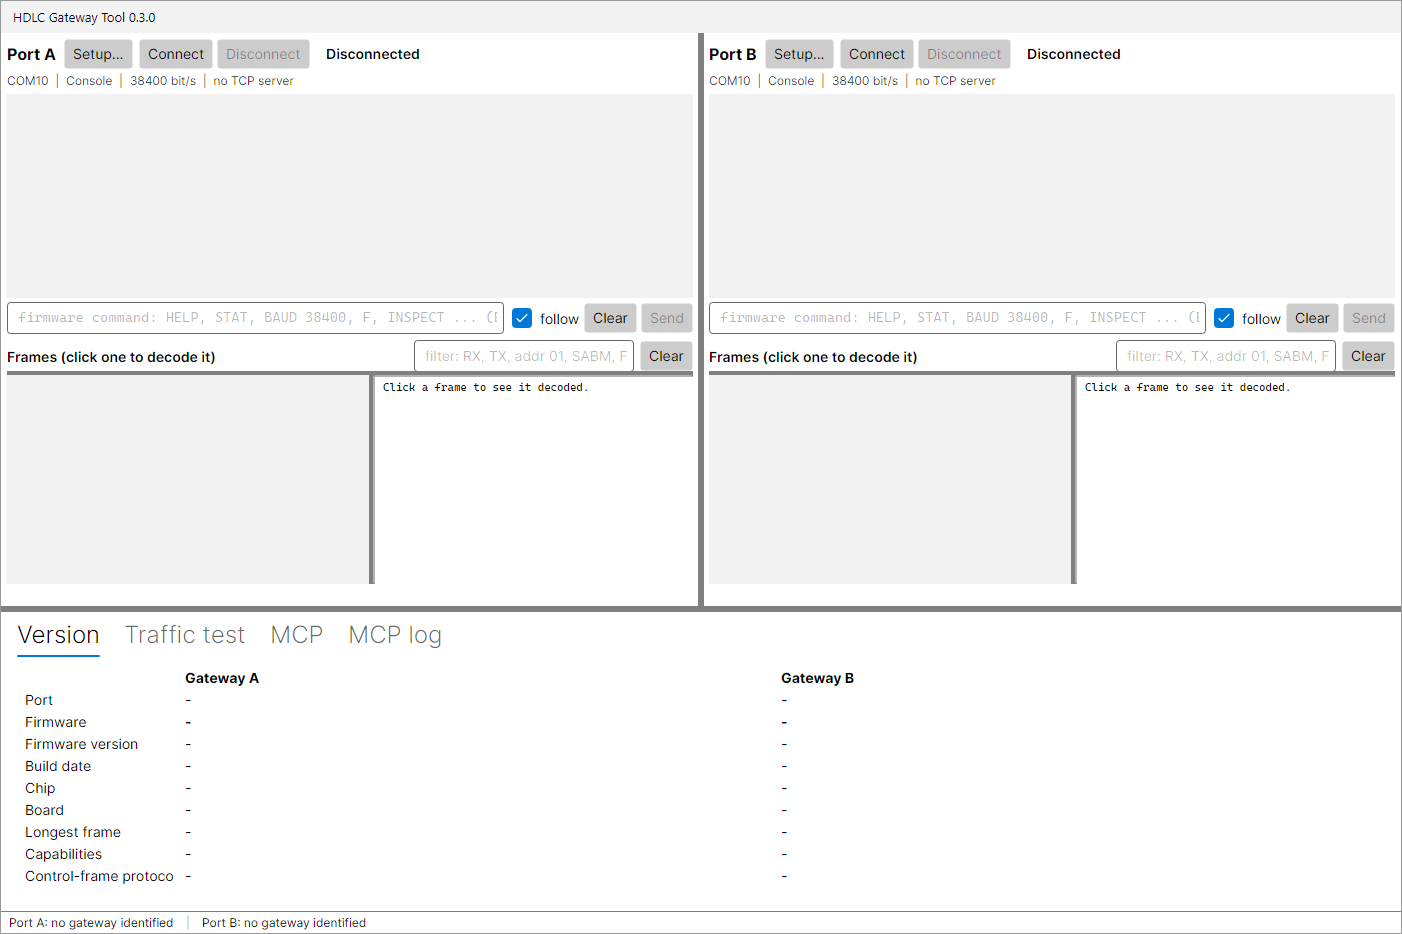
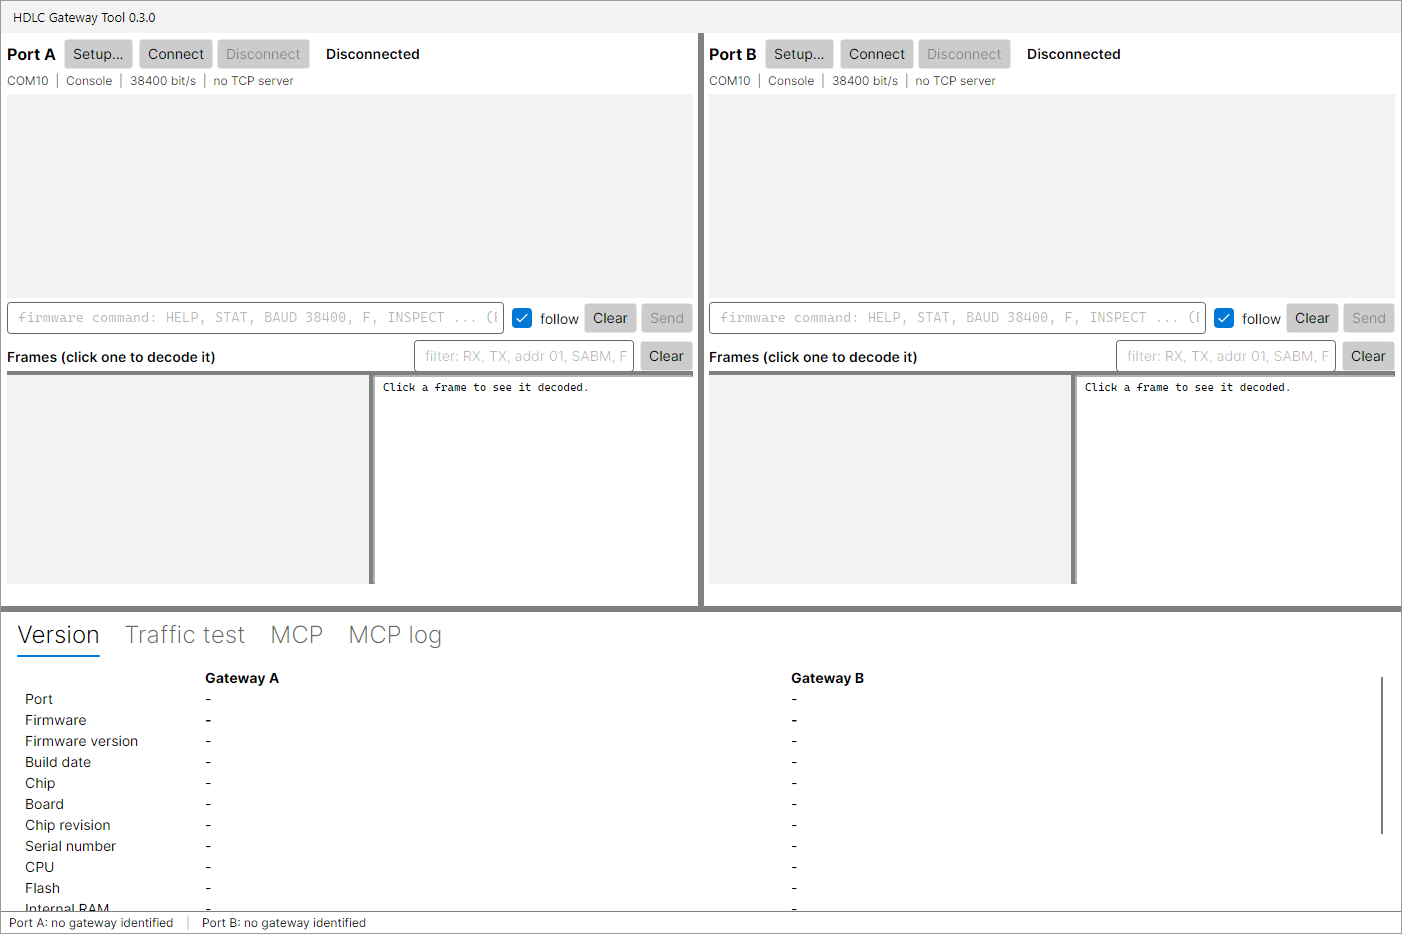
Version tab: chip revision, serial number, CPU, flash, RAM and PSRAM
HDLCGW and XMSGGW now send the hardware in their HELLO reply (rev, serial,
cores, mhz, flash, flashimage, flashmhz, flashmode, ram, ramfree, ramleast,
ramblock, psram, psramfree, psramblock); RC422Dev uses the same names.
GatewayIdentity reads every key, and the Version tab shows six new rows.
A key the firmware does not send shows as "-".

The Version table now scrolls: with the new rows it is taller than the
300-pixel tab area. The label column is 180 pixels so "Control-frame
protocol" is not cut off.

Tests: the new keys parsed, missing and non-number values, and the pane's
text for each row. The fake gateways and the screenshot samples carry the
keys; the pictures were made again. 150 tests pass.

Changed region(s): [[0.0, 0.7452, 0.1227, 0.9936], [0.1227, 0.7141, 0.2147, 0.7452], [0.5521, 0.7141, 0.6134, 0.7452]]

diff --git a/src/HdlcGatewayTest.Core/GatewayIdentity.cs b/src/HdlcGatewayTest.Core/GatewayIdentity.cs
@@ -8,7 +8,9 @@ namespace HdlcGatewayTest.Core;
 
 /// <summary>
 /// The firmware's answer to HELLO: a protocol version byte followed by key=value lines
-/// separated by LF. Known keys are name, version, build, maxframe and caps (comma separated);
+/// separated by LF. Known keys are name, version, build, chip, board, maxframe, caps (comma
+/// separated) and the hardware keys rev, serial, cores, mhz, flash, flashimage, flashmhz,
+/// flashmode, ram, ramfree, ramleast, ramblock, psram, psramfree and psramblock (2026-11-23);
 /// unknown keys are kept in <see cref="Values"/> so a newer firmware loses nothing.
 /// </summary>
 public sealed class GatewayIdentity
@@ -60,6 +62,54 @@ public sealed class GatewayIdentity
     /// <summary>Longest frame the firmware accepts, or 0 when not reported.</summary>
     public int MaxFrame => int.TryParse(Get("maxframe"), out int n) ? n : 0;
 
+    /// <summary>Chip revision, for example "0.0" (key "rev"; empty on older firmware).</summary>
+    public string Revision => Get("rev");
+
+    /// <summary>
+    /// The chip's serial number (key "serial"): the factory MAC from eFuse on an ESP32, the flash
+    /// chip's unique ID on a Pico. Empty on older firmware.
+    /// </summary>
+    public string Serial => Get("serial");
+
+    /// <summary>CPU cores (key "cores"), or null when not reported.</summary>
+    public long? Cores => GetNumber("cores");
+
+    /// <summary>CPU clock in MHz (key "mhz"), or null when not reported.</summary>
+    public long? CpuMhz => GetNumber("mhz");
+
+    /// <summary>Flash size read from the flash chip, in bytes (key "flash"), or null when not reported.</summary>
+    public long? FlashBytes => GetNumber("flash");
+
+    /// <summary>Flash size the firmware image was built for, in bytes (key "flashimage"), or null.</summary>
+    public long? FlashImageBytes => GetNumber("flashimage");
+
+    /// <summary>Flash clock in MHz (key "flashmhz"), or null when not reported.</summary>
+    public long? FlashMhz => GetNumber("flashmhz");
+
+    /// <summary>Flash access mode, for example "qio" or "dio" (key "flashmode"; empty when not reported).</summary>
+    public string FlashMode => Get("flashmode");
+
+    /// <summary>Internal RAM (heap) size in bytes (key "ram"), or null when not reported.</summary>
+    public long? RamBytes => GetNumber("ram");
+
+    /// <summary>Internal RAM free when HELLO was answered, in bytes (key "ramfree"), or null.</summary>
+    public long? RamFree => GetNumber("ramfree");
+
+    /// <summary>Least internal RAM free since the board started, in bytes (key "ramleast"), or null.</summary>
+    public long? RamLeast => GetNumber("ramleast");
+
+    /// <summary>Largest free block of internal RAM, in bytes (key "ramblock"), or null.</summary>
+    public long? RamBlock => GetNumber("ramblock");
+
+    /// <summary>PSRAM size in bytes (key "psram"; 0 when the board has none), or null when not reported.</summary>
+    public long? PsramBytes => GetNumber("psram");
+
+    /// <summary>PSRAM free in bytes (key "psramfree"), or null when not reported.</summary>
+    public long? PsramFree => GetNumber("psramfree");
+
+    /// <summary>Largest free block of PSRAM, in bytes (key "psramblock"), or null when not reported.</summary>
+    public long? PsramBlock => GetNumber("psramblock");
+
     /// <summary>Capability words from the caps key.</summary>
     public IReadOnlyList<string> Capabilities => _capabilities;
 
@@ -103,5 +153,14 @@ public sealed class GatewayIdentity
     private string Get(string key)
     {
         return _values.TryGetValue(key, out string? value) ? value : string.Empty;
+    }
+
+    /// <summary>A whole number from a key, or null when the key is missing or not a number.</summary>
+    private long? GetNumber(string key)
+    {
+        return _values.TryGetValue(key, out string? value)
+               && long.TryParse(value, System.Globalization.NumberStyles.None, System.Globalization.CultureInfo.InvariantCulture, out long n)
+            ? n
+            : null;
     }
 }

diff --git a/src/HdlcGatewayTest.App/ViewModels/GatewayPaneViewModel.cs b/src/HdlcGatewayTest.App/ViewModels/GatewayPaneViewModel.cs
@@ -286,6 +286,67 @@ public sealed class GatewayPaneViewModel : ObservableObject
     /// <summary>Board from HELLO (LOLIN S2 Mini, Raspberry Pi Pico).</summary>
     public string FirmwareBoard => Identity(i => i.Board);
 
+    /// <summary>Chip revision from HELLO, for example "0.0".</summary>
+    public string FirmwareRevision => Identity(i => i.Revision);
+
+    /// <summary>Chip serial number from HELLO (factory MAC on an ESP32, flash unique ID on a Pico).</summary>
+    public string FirmwareSerial => Identity(i => i.Serial);
+
+    /// <summary>"2 cores, 240 MHz" from HELLO, or empty on firmware that does not say.</summary>
+    public string FirmwareCpu => Identity(i => Join(
+        i.Cores.HasValue ? i.Cores.Value + (i.Cores.Value == 1 ? " core" : " cores") : string.Empty,
+        i.CpuMhz.HasValue ? i.CpuMhz.Value + " MHz" : string.Empty));
+
+    /// <summary>"4 MB on the chip, image built for 4 MB, 80 MHz, qio" from HELLO.</summary>
+    public string FirmwareFlash => Identity(i => Join(
+        i.FlashBytes.HasValue ? Bytes(i.FlashBytes.Value) + " on the chip" : string.Empty,
+        i.FlashImageBytes.HasValue ? "image built for " + Bytes(i.FlashImageBytes.Value) : string.Empty,
+        i.FlashMhz.HasValue ? i.FlashMhz.Value + " MHz" : string.Empty,
+        i.FlashMode));
+
+    /// <summary>Internal RAM from HELLO: size, free, least free since start, largest block.</summary>
+    public string FirmwareRam => Identity(i => Join(
+        i.RamBytes.HasValue ? Bytes(i.RamBytes.Value) : string.Empty,
+        i.RamFree.HasValue ? Bytes(i.RamFree.Value) + " free" : string.Empty,
+        i.RamLeast.HasValue ? "least " + Bytes(i.RamLeast.Value) : string.Empty,
+        i.RamBlock.HasValue ? "largest block " + Bytes(i.RamBlock.Value) : string.Empty));
+
+    /// <summary>PSRAM from HELLO: "none" when the board has none, else size, free and largest block.</summary>
+    public string FirmwarePsram => Identity(i => i.PsramBytes == 0 ? "none" : Join(
+        i.PsramBytes.HasValue ? Bytes(i.PsramBytes.Value) : string.Empty,
+        i.PsramFree.HasValue ? Bytes(i.PsramFree.Value) + " free" : string.Empty,
+        i.PsramBlock.HasValue ? "largest block " + Bytes(i.PsramBlock.Value) : string.Empty));
+
+    /// <summary>A byte count as "4 MB" when it is a whole number of MB, else "12,848 bytes".</summary>
+    public static string Bytes(long n)
+    {
+        const long Mb = 1024 * 1024;
+        if (n >= Mb && n % Mb == 0)
+        {
+            return (n / Mb).ToString(System.Globalization.CultureInfo.InvariantCulture) + " MB";
+        }
+        return n.ToString("N0", System.Globalization.CultureInfo.InvariantCulture) + " bytes";
+    }
+
+    /// <summary>The non-empty parts joined with ", ".</summary>
+    private static string Join(params string[] parts)
+    {
+        System.Text.StringBuilder sb = new System.Text.StringBuilder();
+        for (int i = 0; i < parts.Length; i++)
+        {
+            if (parts[i].Length == 0)
+            {
+                continue;
+            }
+            if (sb.Length > 0)
+            {
+                sb.Append(", ");
+            }
+            sb.Append(parts[i]);
+        }
+        return sb.ToString();
+    }
+
     /// <summary>Longest frame the firmware takes, from HELLO.</summary>
     public string FirmwareMaxFrame => Identity(i => i.MaxFrame > 0 ? i.MaxFrame + " bytes" : string.Empty);
 
@@ -750,6 +811,12 @@ public sealed class GatewayPaneViewModel : ObservableObject
         Raise(nameof(FirmwareBuild));
         Raise(nameof(FirmwareChip));
         Raise(nameof(FirmwareBoard));
+        Raise(nameof(FirmwareRevision));
+        Raise(nameof(FirmwareSerial));
+        Raise(nameof(FirmwareCpu));
+        Raise(nameof(FirmwareFlash));
+        Raise(nameof(FirmwareRam));
+        Raise(nameof(FirmwarePsram));
         Raise(nameof(FirmwareMaxFrame));
         Raise(nameof(FirmwareCapabilities));
         Raise(nameof(FirmwareProtocol));

diff --git a/src/tests/HdlcGatewayTest.Core.Tests/GatewayConsoleTests.cs b/src/tests/HdlcGatewayTest.Core.Tests/GatewayConsoleTests.cs
@@ -152,6 +152,55 @@ public sealed class GatewayConsoleTests
     }
 
     [Test]
+    public void Hello_ParsesHardwareKeys()
+    {
+        // The hardware keys HDLCGW and XMSGGW send since 2026-11-23 (board_hello_hardware).
+        string text = "name=HDLCGW\nversion=0.3.6\nchip=ESP32-S2\nrev=0.0\nserial=7CDFA1E2B3C4\ncores=1\nmhz=240\n"
+                      + "flash=4194304\nflashimage=4194304\nflashmhz=80\nflashmode=qio\n"
+                      + "ram=154000\nramfree=12848\nramleast=11044\nramblock=8192\n"
+                      + "psram=2097152\npsramfree=2003376\npsramblock=1966068\n";
+        byte[] payload = new byte[1 + Encoding.UTF8.GetByteCount(text)];
+        payload[0] = 1;
+        Encoding.UTF8.GetBytes(text, 0, text.Length, payload, 1);
+
+        Assert.That(GatewayIdentity.TryParse(payload, out GatewayIdentity? id), Is.True);
+        Assert.That(id!.Revision, Is.EqualTo("0.0"));
+        Assert.That(id.Serial, Is.EqualTo("7CDFA1E2B3C4"));
+        Assert.That(id.Cores, Is.EqualTo(1));
+        Assert.That(id.CpuMhz, Is.EqualTo(240));
+        Assert.That(id.FlashBytes, Is.EqualTo(4194304));
+        Assert.That(id.FlashImageBytes, Is.EqualTo(4194304));
+        Assert.That(id.FlashMhz, Is.EqualTo(80));
+        Assert.That(id.FlashMode, Is.EqualTo("qio"));
+        Assert.That(id.RamBytes, Is.EqualTo(154000));
+        Assert.That(id.RamFree, Is.EqualTo(12848));
+        Assert.That(id.RamLeast, Is.EqualTo(11044));
+        Assert.That(id.RamBlock, Is.EqualTo(8192));
+        Assert.That(id.PsramBytes, Is.EqualTo(2097152));
+        Assert.That(id.PsramFree, Is.EqualTo(2003376));
+        Assert.That(id.PsramBlock, Is.EqualTo(1966068));
+    }
+
+    [Test]
+    public void Hello_WithoutHardwareKeys_GivesNullAndEmpty()
+    {
+        // Firmware from before 2026-11-23, and a value that is not a number.
+        string text = "name=HDLCGW\nversion=0.3.5\nmhz=fast\n";
+        byte[] payload = new byte[1 + Encoding.UTF8.GetByteCount(text)];
+        payload[0] = 1;
+        Encoding.UTF8.GetBytes(text, 0, text.Length, payload, 1);
+
+        Assert.That(GatewayIdentity.TryParse(payload, out GatewayIdentity? id), Is.True);
+        Assert.That(id!.Revision, Is.Empty);
+        Assert.That(id.Serial, Is.Empty);
+        Assert.That(id.Cores, Is.Null);
+        Assert.That(id.CpuMhz, Is.Null);
+        Assert.That(id.FlashBytes, Is.Null);
+        Assert.That(id.PsramBytes, Is.Null);
+        Assert.That(id.FlashMode, Is.Empty);
+    }
+
+    [Test]
     public void Statistics_ParseWith17Fields_AndWith10()
     {
         byte[] full = new byte[17 * 4];

diff --git a/src/tests/HdlcGatewayTest.App.Tests/Screenshots.cs b/src/tests/HdlcGatewayTest.App.Tests/Screenshots.cs
@@ -40,10 +40,13 @@ namespace HdlcGatewayTest.App.Tests;
 public sealed class Screenshots
 {
     private const string EspHello =
-        "name=HDLCGW\nversion=0.3.5\nbuild=bench\nchip=ESP32-S2\nboard=LOLIN S2 Mini\nmaxframe=4105\ncaps=cmd,log,stat\n";
+        "name=HDLCGW\nversion=0.3.5\nbuild=bench\nchip=ESP32-S2\nboard=LOLIN S2 Mini\nmaxframe=4105\ncaps=cmd,log,stat\n"
+        + "rev=0.0\ncores=1\nmhz=240\nflash=4194304\nflashimage=4194304\nflashmhz=80\nflashmode=dio\n"
+        + "ram=154000\nramfree=12848\nramleast=11044\npsram=2097152\npsramfree=2003376\n";
 
     private const string PicoHello =
-        "name=RC422Dev\nversion=0.2.0\nbuild=bench\nchip=RP2040\nboard=Raspberry Pi Pico\nmaxframe=4105\ncaps=cmd,stat\n";
+        "name=RC422Dev\nversion=0.2.0\nbuild=bench\nchip=RP2040\nboard=Raspberry Pi Pico\nmaxframe=4105\ncaps=cmd,stat\n"
+        + "cores=2\nflashimage=2097152\nram=270336\npsram=0\n";
 
     private HeadlessUnitTestSession? _session;
     private string _outDir = string.Empty;
@@ -123,8 +126,16 @@ public sealed class Screenshots
             main.PaneB.CommandText = "BAUD 307200";
             main.PaneB.SendCommand.Execute(null);
             PumpFor(500);
+            // The whole Version table, hardware rows included, in the picture: a taller window and
+            // a taller tab row (300 pixels in MainWindow.axaml; a user drags the bar above it).
+            Grid root = (Grid)window.Content!;
+            GridLength tabRow = root.RowDefinitions[2].Height;
+            window.Height = 1100;
+            root.RowDefinitions[2].Height = new GridLength(460);
             SelectTab(window, "Version");
             Save(window, "02-connected-version", theme);
+            root.RowDefinitions[2].Height = tabRow;
+            window.Height = 900;
 
             // 3. Pane A in the Free role: frames typed in hex, decoded in the frame list.
             main.PaneA.SelectedRole = GatewayPaneViewModel.RoleName(GatewayRole.Free);

diff --git a/src/tests/HdlcGatewayTest.App.Tests/GatewayPaneViewModelTests.cs b/src/tests/HdlcGatewayTest.App.Tests/GatewayPaneViewModelTests.cs
@@ -273,6 +273,12 @@ public sealed class GatewayPaneViewModelTests
         Assert.That(vm.FirmwareChip, Is.EqualTo("FAKE1"));
         Assert.That(vm.FirmwareBoard, Is.EqualTo("Test bench"));
         Assert.That(vm.FirmwareMaxFrame, Is.EqualTo("1024 bytes"));
+        Assert.That(vm.FirmwareRevision, Is.EqualTo("1.0"));
+        Assert.That(vm.FirmwareSerial, Is.EqualTo("0011223344AA"));
+        Assert.That(vm.FirmwareCpu, Is.EqualTo("2 cores, 240 MHz"));
+        Assert.That(vm.FirmwareFlash, Is.EqualTo("4 MB on the chip, image built for 2 MB, 80 MHz, dio"));
+        Assert.That(vm.FirmwareRam, Is.EqualTo("323,204 bytes, 216,156 bytes free, least 200,388 bytes, largest block 110,580 bytes"));
+        Assert.That(vm.FirmwarePsram, Is.EqualTo("none"));
         Assert.That(vm.FirmwareCapabilities, Is.EqualTo("cmd, log, stat"));
         Assert.That(vm.FirmwarePort, Is.EqualTo("GOOD"));
         Assert.That(vm.VersionSummary, Is.EqualTo("Port A: FAKEGW 0.2.0 on FAKE1 (Test bench), built test"));

diff --git a/src/tests/HdlcGatewayTest.Core.Tests/FakeGateway.cs b/src/tests/HdlcGatewayTest.Core.Tests/FakeGateway.cs
@@ -70,7 +70,9 @@ public sealed class FakeGateway
     /// firmware so the pictures read like the bench.
     /// </summary>
     public string HelloText { get; set; } =
-        "name=FAKEGW\nversion=0.2.0\nbuild=test\nchip=FAKE1\nboard=Test bench\nmaxframe=1024\ncaps=cmd,log,stat\n";
+        "name=FAKEGW\nversion=0.2.0\nbuild=test\nchip=FAKE1\nboard=Test bench\nmaxframe=1024\ncaps=cmd,log,stat\n"
+        + "rev=1.0\nserial=0011223344AA\ncores=2\nmhz=240\nflash=4194304\nflashimage=2097152\nflashmhz=80\nflashmode=dio\n"
+        + "ram=323204\nramfree=216156\nramleast=200388\nramblock=110580\npsram=0\n";
 
     /// <summary>Current transmit clock, set by BAUD.</summary>
     public uint Baud { get; private set; } = 38400;

diff --git a/README.md b/README.md
@@ -72,7 +72,7 @@ its frame and console logs), `HdlcGatewayTest.Serial` (the COM port) and `HdlcGa
 
 Version 0.3.0 (`VersionPrefix` in `src/Directory.Build.props`).
 
-- 148 unit tests (run 2026-11-21: Core 113, Gateway 13, Mcp 12, App 10): the FCS and the byte stuffing, control frames (including the proof that a
+- 150 unit tests (run 2026-11-23: Core 115, Gateway 13, Mcp 12, App 10): the FCS and the byte stuffing, control frames (including the proof that a
   control frame and a good HDLC frame can never be confused), the channel that sorts frames,
   the request and reply matching, the probe that tells a control-frame firmware from a legacy
   one, the traffic engine against a fake gateway (clean, lossy, two gateways), the session
